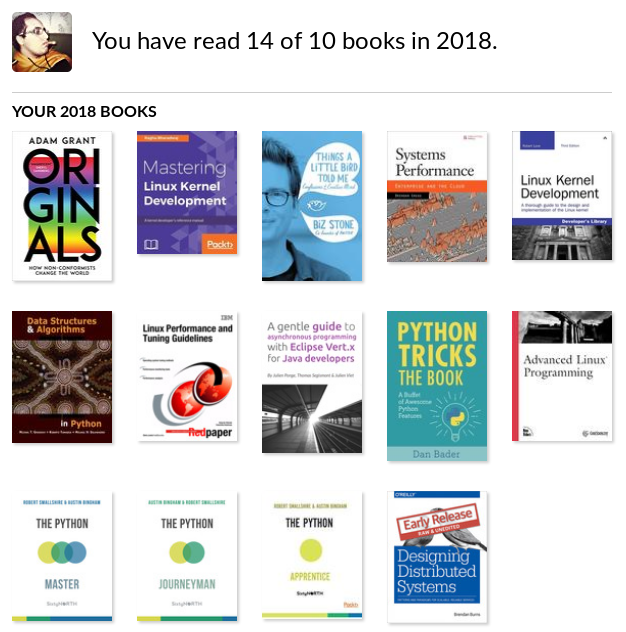
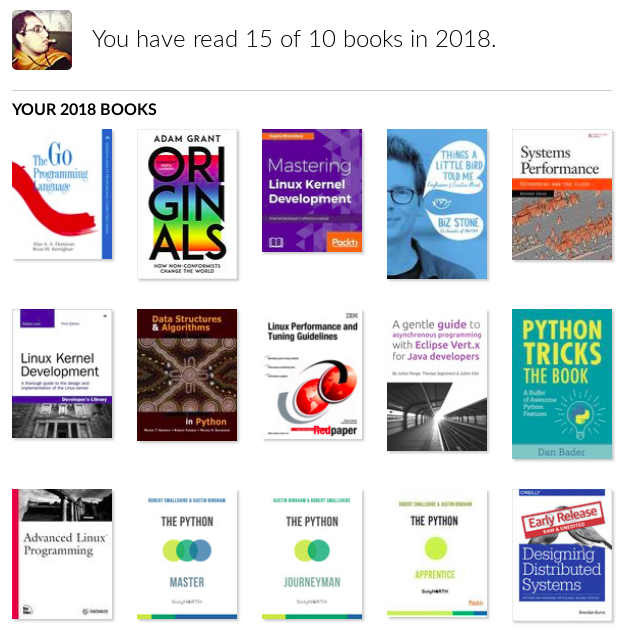
Updated 2018.html

diff --git a/2018.html b/2018.html
@@ -42,7 +42,7 @@
 		</li>
 
         <li>
-            <span style="font-weight: bold;">[140%]
+            <span style="font-weight: bold;">[150%]
             Read 10 books.
 			</span>
         </li>
@@ -68,8 +68,8 @@
             </ul>
         </li>
 
-        <li>
-			<span style="font-weight: bold;">[&nbsp;95%]</span>
+        <li style="font-weight: bold;">
+			<span style="font-weight: bold;">[100%]</span>
             Learn Go fundamentals.
         </li>
 
